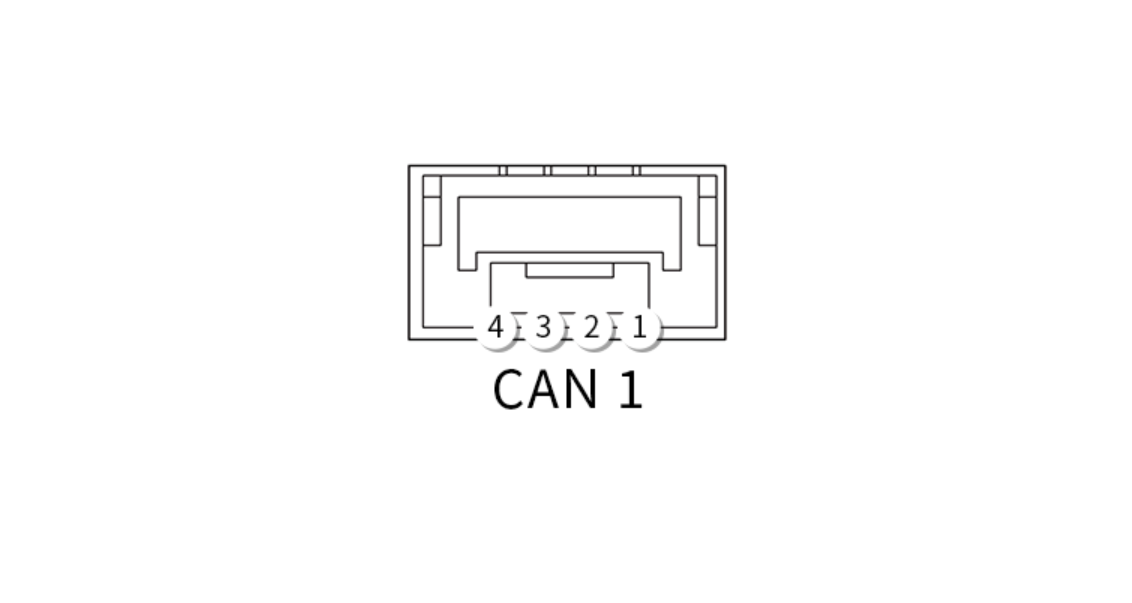
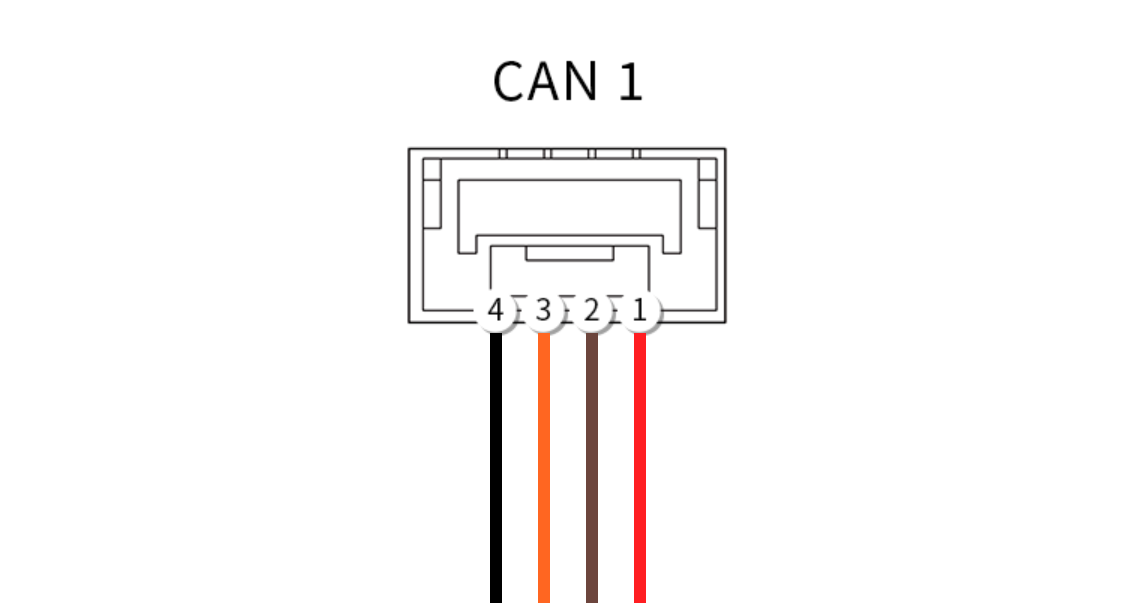
GitBook: [#373] No subject

diff --git a/cubepilot-ecosystem/cubepilot-partners/union-robotics/herelink-blue/configure-buttons.md b/cubepilot-ecosystem/cubepilot-partners/union-robotics/herelink-blue/configure-buttons.md
@@ -24,7 +24,7 @@ Select `Button Mapping` &#x20;
 
 Choose desired button
 
-![](../../../../.gitbook/assets/button-mapping-2.jpg)
+![](<../../../../.gitbook/assets/button-mapping-2 (1).jpg>)
 
 Select either `Click` or `Long Click` (**Note** this allows you to set two functions to each button)
 
@@ -32,15 +32,15 @@ Select either `Click` or `Long Click` (**Note** this allows you to set two funct
 
 Click on drop down to select the function you want
 
-![](../../../../.gitbook/assets/button-mapping-3.png)
+![](<../../../../.gitbook/assets/button-mapping-3 (1).png>)
 
 Click on small cog to select option with-in selected function
 
-![](../../../../.gitbook/assets/button-mapping-6.jpg)
+![](<../../../../.gitbook/assets/button-mapping-6 (1).jpg>)
 
 Select function option
 
-![](../../../../.gitbook/assets/button-mapping-5.png)
+![](<../../../../.gitbook/assets/button-mapping-5 (1).png>)
 
 Repeat for each button assignment and click `SAVE BUTTONS` in bottom corner to finish
 
@@ -63,17 +63,17 @@ The hardware wheel is mapped to SBUS channel 5 by default but can also be config
 
 Select the desired servo channel from 1- to 16
 
-![](<../../../../.gitbook/assets/image (6).jpeg>)
+![](<../../../../.gitbook/assets/image (6) (1).jpeg>)
 
 Finish by clicking OK and click `SAVE BUTTONS` in bottom corner
 
 To configure a button to change the wheel servo output configure the button to `WHEEL SETTINGS`&#x20;
 
-![](<../../../../.gitbook/assets/image (7).jpeg>)
+![](<../../../../.gitbook/assets/image (7) (1).jpeg>)
 
 Click the cog and set new channel and PWM values and click `OK` and then `SAVE BUTTONS` in bottom right corner. &#x20;
 
-![](<../../../../.gitbook/assets/image (3) (1).png>)
+![](<../../../../.gitbook/assets/image (3) (1) (1).png>)
 
 Once changed the wheel will output on the new selected channel, to return to its original servo output you will need to program one button function to `Clear Wheel Settings` as shown above.
 

diff --git a/herepro/herepro-manual.md b/herepro/herepro-manual.md
@@ -214,11 +214,11 @@ Connect the 4pin CAN cable from left-hand-side CAN port on HerePro to CAN1 or CA
 
 Connect the autopilot to Mission Planner via USB. Go to `Initial Settings > Optional Hardware > DRONECAN` page and click `SLCan Mode CAN1`. CAN device status will show up. Click `Menu > parameters` at the right-hand-side to modify the following parameters:
 
-![](<../.gitbook/assets/herepro-connect-the-autopilot-to-mission-planner-via-usb (3) (2) (1).png>)
+![](<../.gitbook/assets/herepro-connect-the-autopilot-to-mission-planner-via-usb (3) (2).png>)
 
 Modify parameters **“GPS\_TYPE = 1“ , “GPS\_RTCMSOURCE = 10” , “SERIALPASS = 0“ , "CAN\_NODE = 9"**. After that, click `write params` then `Commit Params` and disconnect the HerePro. Connect another HerePro and continue.
 
-![](<../.gitbook/assets/2en (2) (2) (1).png>)
+![](<../.gitbook/assets/2en (2) (2).png>)
 
 **HerePro Base parameter settings:**
 
@@ -228,7 +228,7 @@ Connect the 4pin CAN cable from left-hand-side CAN port on HerePro to CAN1 or CA
 
 Connect the autopilot to Mission Planner via USB. Go to `Initial Settings > Optional Hardware > DRONECAN` page and click `SLCan Mode CAN1`. CAN device status will show up. Click `Menu > parameters` at the right-hand-side to modify the following parameters:
 
-![](<../.gitbook/assets/herepro-connect-the-autopilot-to-mission-planner-via-usb (3) (2) (2).png>)
+![](<../.gitbook/assets/herepro-connect-the-autopilot-to-mission-planner-via-usb (3) (2) (1).png>)
 
 Modify parameters **“SERIALPASS = 1”**. After that, click `write params` then `Commit Params` and disconnect the HerePro.
 

diff --git a/here-3/here-3-manual.md b/here-3/here-3-manual.md
@@ -27,14 +27,29 @@ Here 3/3+ GPS is a Cost-efficient GNSS system that supports RTK mode. Positionin
 
 #### Pinout
 
+
+
 ![](../.gitbook/assets/01.png)
 
-| Pin | Defination | Cable color |
+| Pin | Definition | Cable color |
 | :-: | :--------: | :---------: |
 |  1  |   VCC\_5V  |     red     |
-|  2  |   CAN\_H   |    white    |
+|  2  |   CAN\_H   |    brown    |
 |  3  |   CAN\_L   |    yellow   |
 |  4  |     GND    |    black    |
+
+![](<../.gitbook/assets/Here3 Can2.png>)
+
+
+
+| Pin | Definition | Cable color |
+| :-: | :--------: | :---------: |
+|  1  |   VCC\_5V  |     grey    |
+|  2  |   CAN\_H   |     blue    |
+|  3  |   CAN\_L   |    white    |
+|  4  |     GND    |    green    |
+
+**Note: Current firmware only support CAN 1 ,CAN 2 is not supported. Dual CAN will be enabled in a future firmware update.**
 
 ### Operation instruction
 

diff --git a/here-2/here-2-can-mode-instruction.md b/here-2/here-2-can-mode-instruction.md
@@ -20,7 +20,7 @@ After uploading successfully, click on ‘Connect’. Press Ctrl+L keys to enter
 
 Click on ‘SLCan Mode CAN1’, then the information of Here2 device will show up. Click on ‘Parameters’ on the right side.
 
-![](<../.gitbook/assets/here-2-can-instruction-3-1 (1) (2) (1).jpg>)
+![](<../.gitbook/assets/here-2-can-instruction-3-1 (1) (2).jpg>)
 
 Pop up the parameters setting interface shown as the screenshot below, set the value of dronecan.node\_id between 0 and 125. Click on ‘Writing parameters’, then click on ‘Commit Params’ to save the setting. With the above mentioned steps, manual Node allocation is completed. If the user would like to enable the barometer, it can be done by setting the value of BARO\_ENABLE as 1.
 

diff --git a/cubepilot-ecosystem/cubepilot-partners/union-robotics/herelink-blue/share-video-stream.md b/cubepilot-ecosystem/cubepilot-partners/union-robotics/herelink-blue/share-video-stream.md
@@ -18,7 +18,7 @@ Pull down the Notification Drawer and enable Hotspot.
 
 To configure press and hold hotspot logo, and you should see following screen.
 
-![](<../../../../.gitbook/assets/image (10) (1).png>)
+![](<../../../../.gitbook/assets/image (10).png>)
 
 Then under Set up Wifi hotspot configure name and password for the hotspot.
 
@@ -34,7 +34,7 @@ Press and hold the Hotspot button under notification logo.
 
 Under `Tethering & portable hotspot` find `USB tethering`, turn it on.
 
-![](<../../../../.gitbook/assets/image (10).png>)
+![](<../../../../.gitbook/assets/image (10) (1).png>)
 
 ![](<../../../../.gitbook/assets/Screen Shot 2021-02-14 at 12.41.01 PM.png>)
 

diff --git a/herelink/herelink-user-guides/share-video-stream.md b/herelink/herelink-user-guides/share-video-stream.md
@@ -153,7 +153,7 @@ Now，Mission Planner able to use mavlink telemetry data.
 
 ![](<../../.gitbook/assets/Screenshot 2022-07-08 at 12.58.27 PM (1).jpg>)
 
-![](<../../.gitbook/assets/Screenshot 2022-07-08 at 12.58.41 PM (2).jpg>)
+![](<../../.gitbook/assets/Screenshot 2022-07-08 at 12.58.41 PM (2) (1).jpg>)
 
 * Right click on HUD screen to enter Vedio menu,choose HereLink Video then a IP input window will pop up.
 * Enter the IP address obtained in the previous step，then the vedio will be showed on HUD screen.

diff --git a/cubepilot-ecosystem/cubepilot-partners/union-robotics/herelink-blue/ur-solex-tx-app.md b/cubepilot-ecosystem/cubepilot-partners/union-robotics/herelink-blue/ur-solex-tx-app.md
@@ -32,7 +32,7 @@ Once all items have been checked on the Pre-Flight Checklist screen, you will be
 
 ### **Flight Screen**
 
-![](<../../../../.gitbook/assets/Screen Shot 2021-01-18 at 5.17.26 PM (2) (1).png>)
+![](<../../../../.gitbook/assets/Screen Shot 2021-01-18 at 5.17.26 PM (2).png>)
 
 |                        |                                                                         |
 | ---------------------- | ----------------------------------------------------------------------- |

diff --git a/cubepilot-ecosystem/cubepilot-partners/union-robotics/meadowhawk-2/meadowhawk-2-user-guide/table-of-contents/1.-general.md b/cubepilot-ecosystem/cubepilot-partners/union-robotics/meadowhawk-2/meadowhawk-2-user-guide/table-of-contents/1.-general.md
@@ -148,7 +148,7 @@ support@union-robotics.com
 
 ![](../../../../../../.gitbook/assets/DataLink-Labled.jpeg)
 
-![](<../../../../../../.gitbook/assets/Screen Shot 2021-01-18 at 5.17.26 PM (2).png>)
+![](<../../../../../../.gitbook/assets/Screen Shot 2021-01-18 at 5.17.26 PM (2) (1).png>)
 
 ## **1.4.2 Command and Control Link**
 
